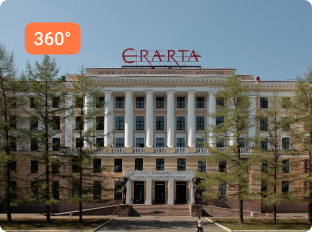
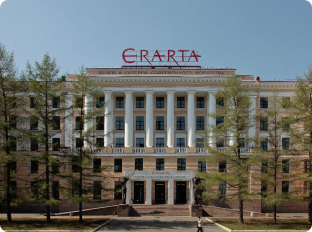
feat: add places section

Changed region(s): [[0.0577, 0.0905, 0.2596, 0.2414]]

diff --git a/src/components/Places.vue b/src/components/Places.vue
@@ -1,0 +1,129 @@
+<template>
+  <section class="places">
+    <div class="container">
+      <h2 class="heading">Интересные места</h2>
+      <div class="cards">
+        <template v-for="(card, index) in $options.cards" :key="index">
+          <PlaceCard
+            :img="require(`@/assets/images/places/${card.img}`)"
+            :name="card.name"
+            :tag="card.tag"
+            :color="card.color"
+            :location="card.location"
+          />
+        </template>
+      </div>
+      <div class="btn">Посмотреть все места</div>
+    </div>
+  </section>
+</template>
+
+<script>
+import PlaceCard from "@/components/PlaceCard.vue";
+
+export default {
+  name: "Places",
+  components: { PlaceCard },
+  cards: [
+    {
+      img: "copper-rider.jpg",
+      tag: "360°",
+      color: "#FF7844",
+      name: "Медный всадник",
+      location: "Санкт-Петербург",
+    },
+    {
+      img: "motherland.jpg",
+      tag: "Видео",
+      color: "#40B3E0",
+      name: "Родина-мать",
+      location: "Волгоград",
+    },
+    {
+      img: "pushkin.jpg",
+      tag: "3D",
+      color: "#22C56D",
+      name: "Памятник Пушкину",
+      location: "Санкт-Петербург",
+    },
+    {
+      img: "kremlin.jpg",
+      tag: "3D",
+      color: "#22C56D",
+      name: "Кремль",
+      location: "Москва",
+    },
+    {
+      img: "peterhof.jpg",
+      tag: "360°",
+      color: "#FF7844",
+      name: "Петергоф",
+      location: "Санкт-Петербург",
+    },
+    {
+      img: "baikal.jpg",
+      tag: "3D",
+      color: "#22C56D",
+      name: "Озеро Байкал",
+      location: "Иркутск",
+    },
+    {
+      img: "erarta.jpg",
+      tag: "360°",
+      color: "#FF7844",
+      name: "Музей Эрарта",
+      location: "Санкт-Петербург",
+    },
+    {
+      img: "hermitage.jpg",
+      tag: "Видео",
+      color: "#40B3E0",
+      name: "Эрмитаж",
+      location: "Санкт-Петербург",
+    },
+  ],
+};
+</script>
+
+<style lang="scss">
+.places {
+  padding: 96px 100px;
+
+  background: $form-gray-2;
+
+  display: flex;
+  justify-content: center;
+
+  .container {
+    width: 100%;
+    max-width: 1320px;
+
+    .heading {
+      font-size: 36px;
+      font-weight: 500;
+      line-height: 56px;
+      margin-bottom: 32px;
+    }
+
+    .cards {
+      display: grid;
+      grid-template-columns: repeat(4, 1fr);
+
+      gap: 24px;
+
+      margin-bottom: 72px;
+    }
+
+    .btn {
+      cursor: pointer;
+      width: 100%;
+      text-align: center;
+      background: $primary;
+      padding: 20px 0;
+      border-radius: 16px;
+      color: $white;
+      font-weight: 700;
+    }
+  }
+}
+</style>

diff --git a/src/components/PlaceCard.vue b/src/components/PlaceCard.vue
@@ -1,0 +1,106 @@
+<template>
+  <div class="card">
+    <div class="card__tag" :style="{ background: color }">
+      {{ tag }}
+    </div>
+    <img :src="img" alt="name" class="card__img" />
+
+    <div class="card__content">
+      <div class="card__name">
+        {{ name }}
+      </div>
+      <div class="card__location">
+        {{ location }}
+        <span>
+          <img
+            src="../assets/icons/map-pin-gray.svg"
+            alt="location ico"
+            class="card__location-icon"
+          />
+        </span>
+      </div>
+      <img src="../assets/icons/like.svg" alt="like ico" class="card__like" />
+    </div>
+  </div>
+</template>
+
+<script>
+export default {
+  name: "PlaceCard",
+  props: {
+    img: String,
+    name: String,
+    location: String,
+    tag: String,
+    color: String,
+  },
+};
+</script>
+
+<style lang="scss">
+.card {
+  position: relative;
+
+  display: flex;
+  flex-direction: column;
+
+  background: $white;
+
+  border-radius: 16px;
+
+  overflow: hidden;
+
+  &__tag {
+    position: absolute;
+    top: 22px;
+    left: 25px;
+
+    padding: 5px 15px;
+
+    border-radius: 8px;
+    color: $white;
+    font-weight: 500;
+  }
+
+  &__content {
+    padding: 24px;
+
+    display: grid;
+    grid-template-areas:
+      "name like"
+      "location like";
+
+    row-gap: 8px;
+  }
+
+  &__like {
+    grid-area: like;
+    width: 24px;
+    justify-self: flex-end;
+
+    cursor: pointer;
+  }
+
+  &__name {
+    grid-area: name;
+    font-weight: 500;
+    font-size: 18px;
+    line-height: 23px;
+  }
+
+  &__location {
+    display: flex;
+    grid-area: location;
+    display: flex;
+    column-gap: 8px;
+    align-items: flex-end;
+
+    color: $form-gray-3;
+    line-height: 21px;
+  }
+
+  &__location-icon {
+    width: 24px;
+  }
+}
+</style>

diff --git a/src/views/Main.vue b/src/views/Main.vue
@@ -1,6 +1,8 @@
 <template>
   <div class="root">
     <Header />
+    <Places />
+
     <Footer />
   </div>
 </template>
@@ -8,10 +10,14 @@
 <script>
 import Footer from "@/components/Footer.vue";
 import Header from "@/components/Header.vue";
+import Places from "@/components/Places.vue";
 export default {
   name: "Error",
-  components: { Footer, Header },
+  components: { Footer, Header, Places },
 };
 </script>
 
-<style lang="scss"></style>
+<style lang="scss">
+.root {
+}
+</style>

diff --git a/src/components/Header.vue b/src/components/Header.vue
@@ -103,6 +103,8 @@ export default {
   background: url("../assets/images/main-bg.jpg");
   background-size: cover;
 
+  padding: 0 100px;
+
   color: $white;
 
   .container {
@@ -140,6 +142,8 @@ export default {
       padding: 8px;
       background: $white;
       border-radius: 12px;
+
+      box-sizing: border-box;
 
       &__input {
         width: 100%;

diff --git a/src/static/colors.scss b/src/static/colors.scss
@@ -1,4 +1,6 @@
 $form-gray-1: #818da4;
+$form-gray-2: #eff1f4;
+$form-gray-3: #9ea6b6;
 $form-gray-4: #efefef;
 $black: #0f0e0e;
 $white: #ffffff;
